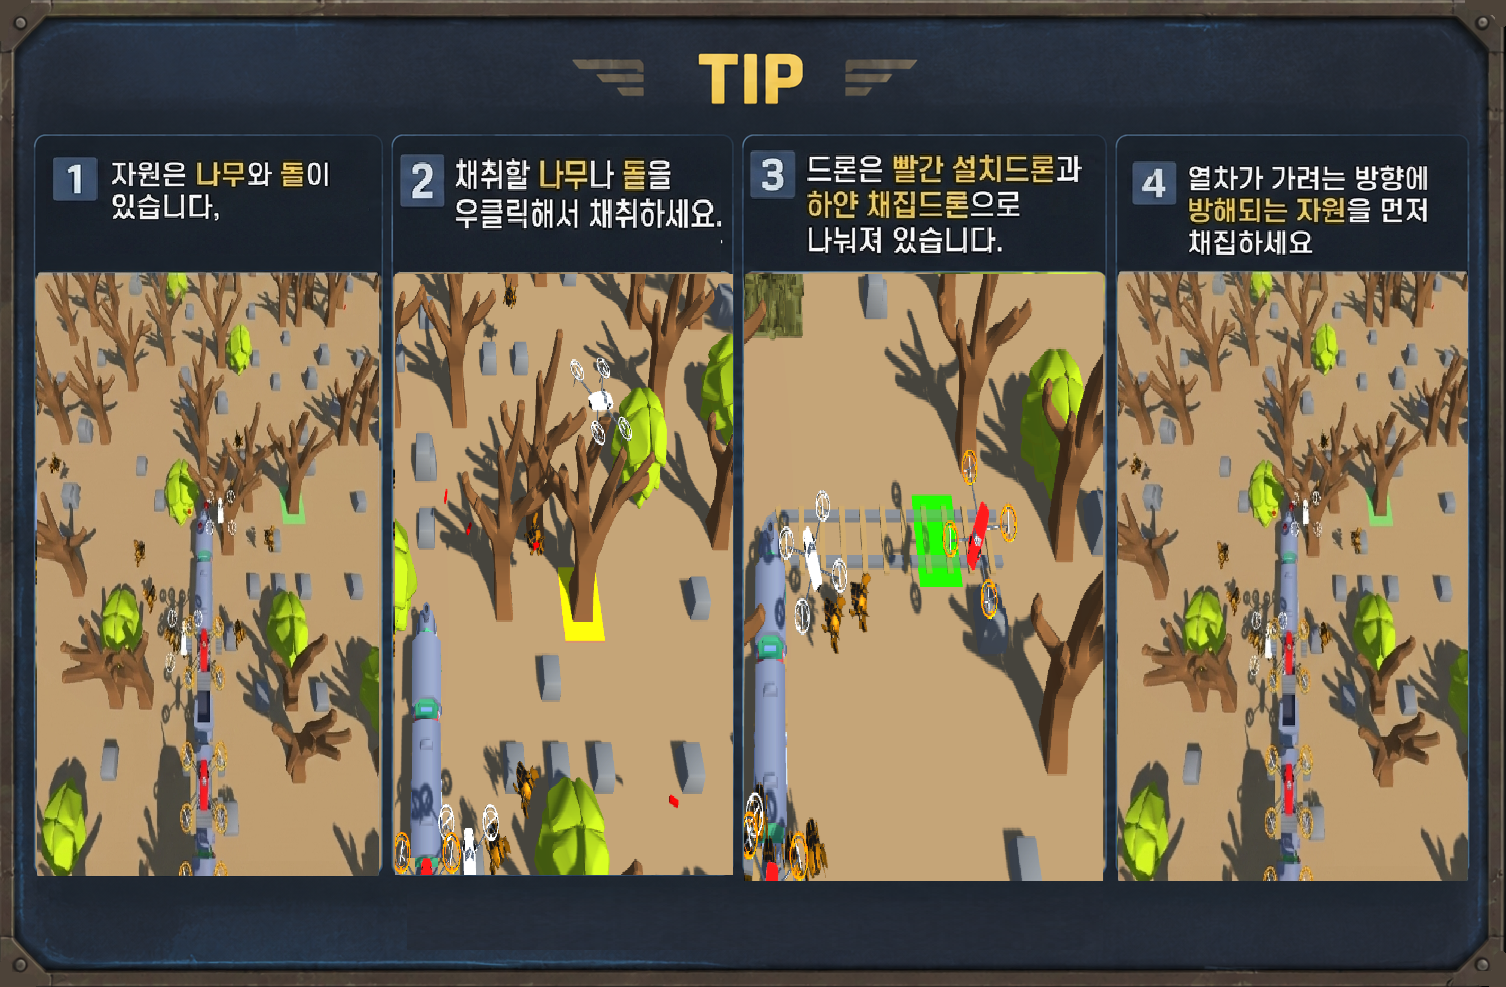
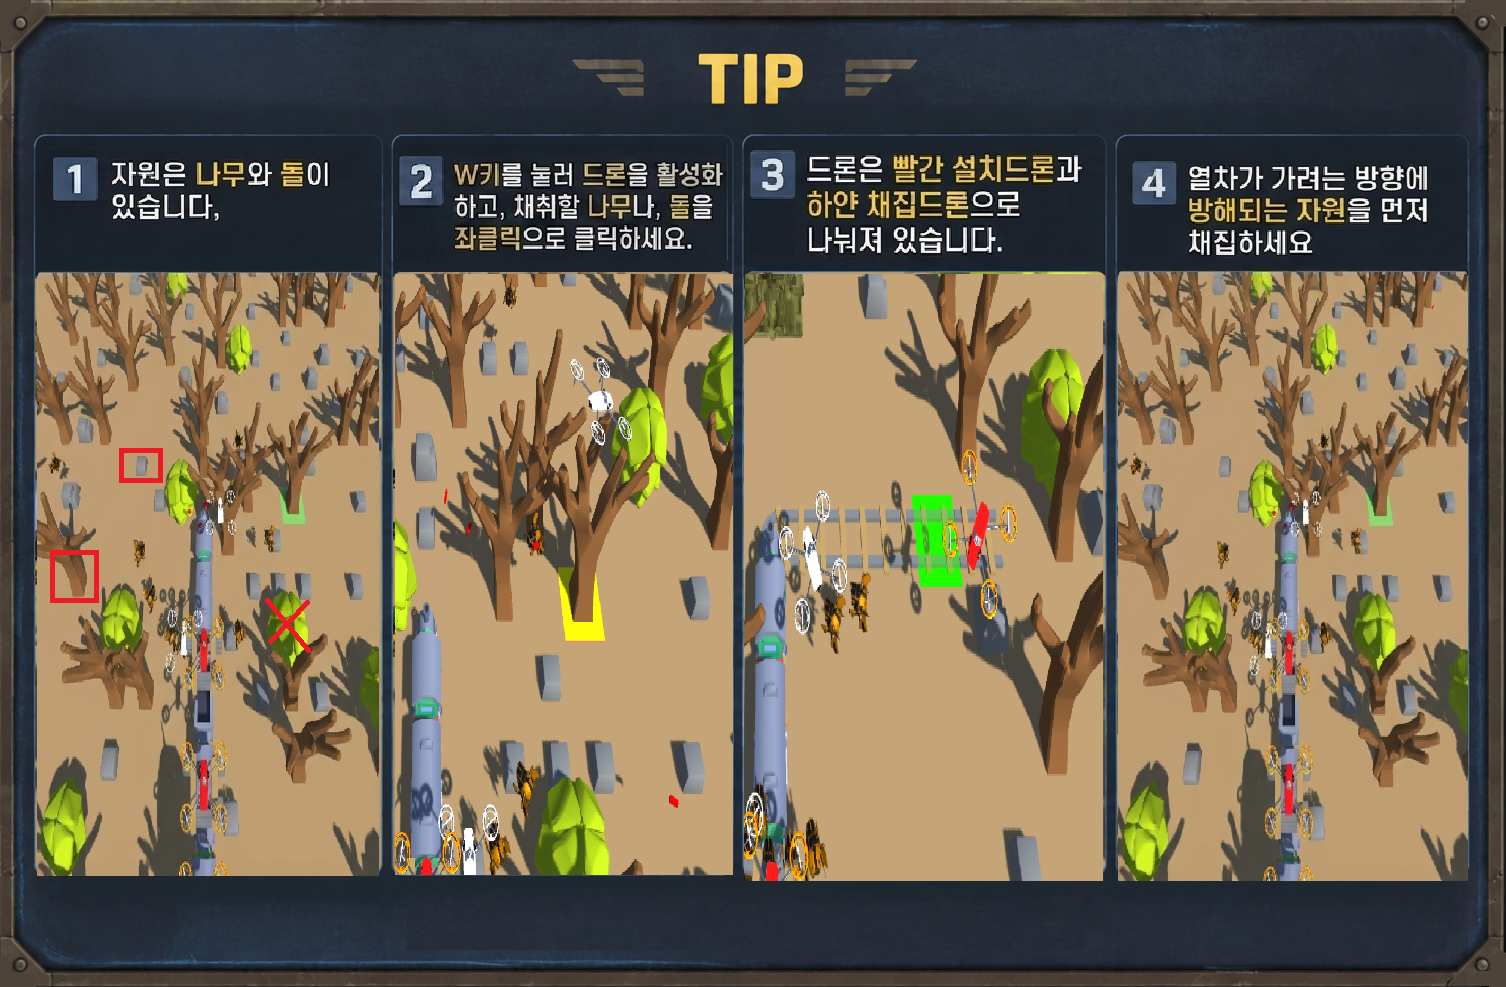
[신영준][UI] fix: 이미지 수정 및 수치 조정

diff --git a/Assets/02.Scripts/UI/NetworkTrainCargoService.cs b/Assets/02.Scripts/UI/NetworkTrainCargoService.cs
@@ -2,7 +2,7 @@
 
 public class NetworkTrainCargoService : SingletonBase<NetworkTrainCargoService>
 {
-    private const int BASE_BOARDING_LIMIT = 20;
+    private const int BASE_BOARDING_LIMIT = 5;
     private int _boardedCitizenCount;
     private int _boardingLimit = BASE_BOARDING_LIMIT;
 
@@ -50,7 +50,7 @@ public class NetworkTrainCargoService : SingletonBase<NetworkTrainCargoService>
     {
         if (slotDataId == "CARGO_CREW_LIMIT")
         {
-            IncreaseBoardingLimit(5); // 임시 값
+            IncreaseBoardingLimit(2);
         }
     }
 

diff --git a/Assets/02.Scripts/UI/PopupUI/WeaponGacha/NetworkGachaService.cs b/Assets/02.Scripts/UI/PopupUI/WeaponGacha/NetworkGachaService.cs
@@ -6,7 +6,7 @@ public class NetworkGachaService : SingletonBase<NetworkGachaService>
     private const int REROLL_COUNT_DEFAULT = 3; 
     public const int REROLL_COST_SINGLE = 1;
     public const int REROLL_COST_ALL = 3;
-    private const int GACHA_BASE_COST = 30;
+    private const int GACHA_BASE_COST = 50;
     private const int GACHA_COST_INCREASE_PER_PULL = 5;
     private int _gachaPullCount = 0;
 

diff --git a/Assets/02.Scripts/UI/ContentUI/NetworkUpgradeService.cs b/Assets/02.Scripts/UI/ContentUI/NetworkUpgradeService.cs
@@ -6,7 +6,7 @@ public class NetworkUpgradeService : SingletonBase<NetworkUpgradeService>
     private bool _isSlotsCreated;
 
     [Header("보상 설정")]
-    private const int RESCUE_REWARD_BASE = 100;
+    private const int RESCUE_REWARD_BASE = 50;
     private const int RESCUE_REWARD_STEP = 5;
 
     private void Start()

diff --git a/Assets/02.Scripts/UI/NetworkResourceService.cs b/Assets/02.Scripts/UI/NetworkResourceService.cs
@@ -3,7 +3,7 @@ using Enums;
 
 public class NetworkResourceService : SingletonBase<NetworkResourceService>
 {
-    private const int BASE_CARGO_LIMIT = 300;
+    private const int BASE_CARGO_LIMIT = 400;
 
     private ResourceViewModel _localVm;
     private int _cargoLimit = BASE_CARGO_LIMIT;
